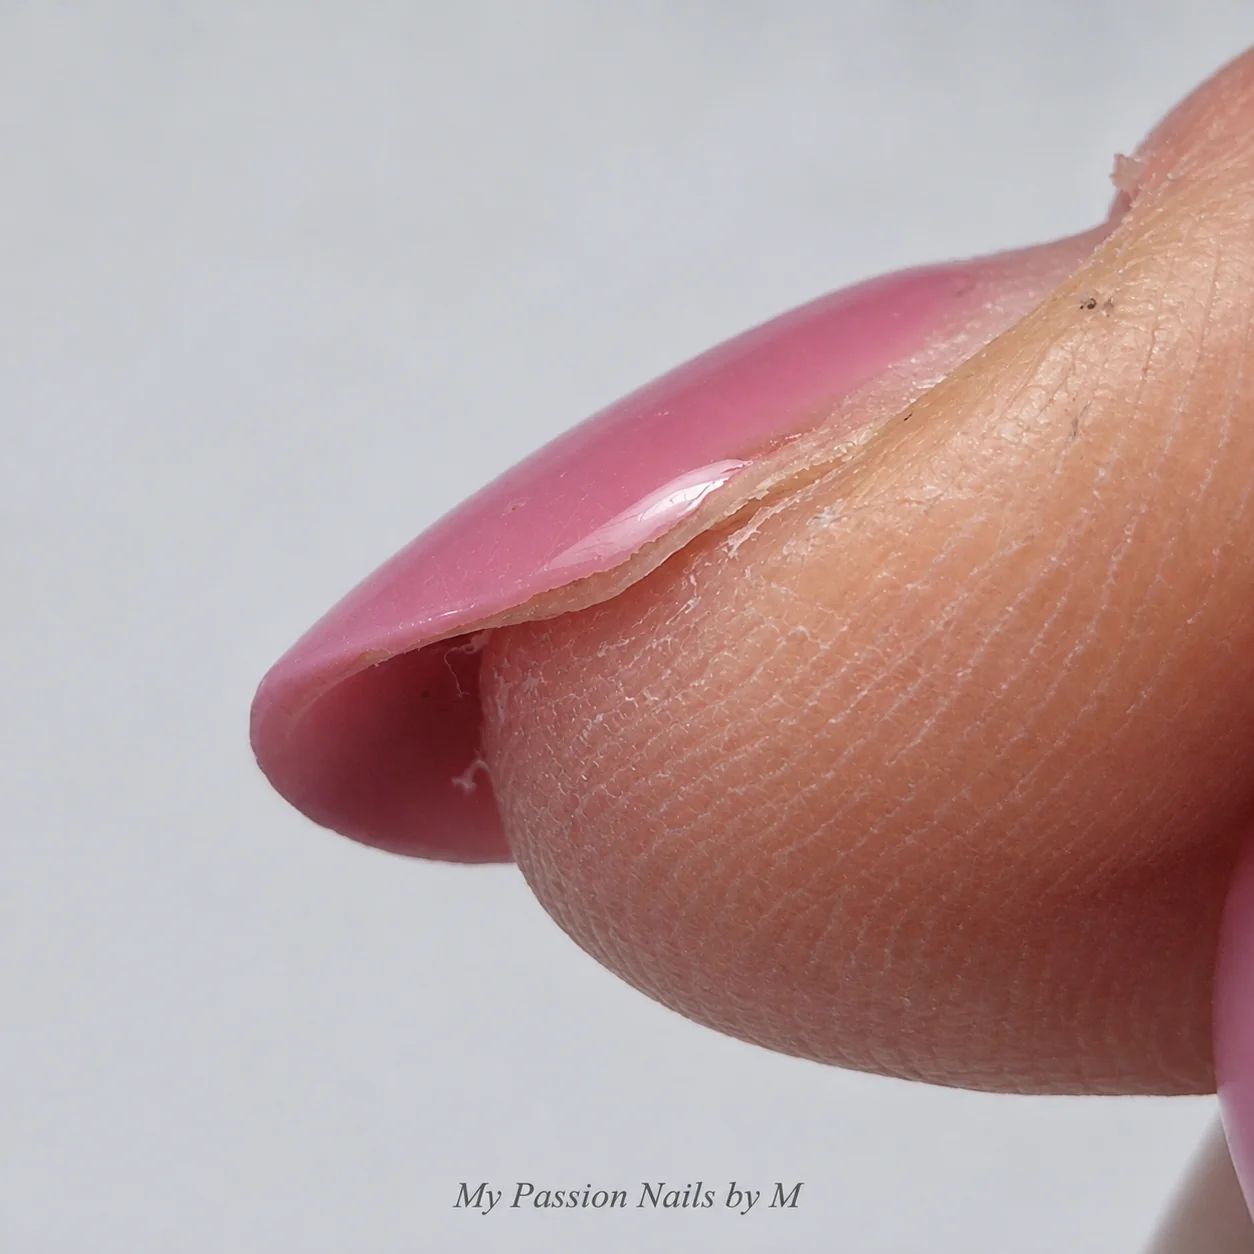
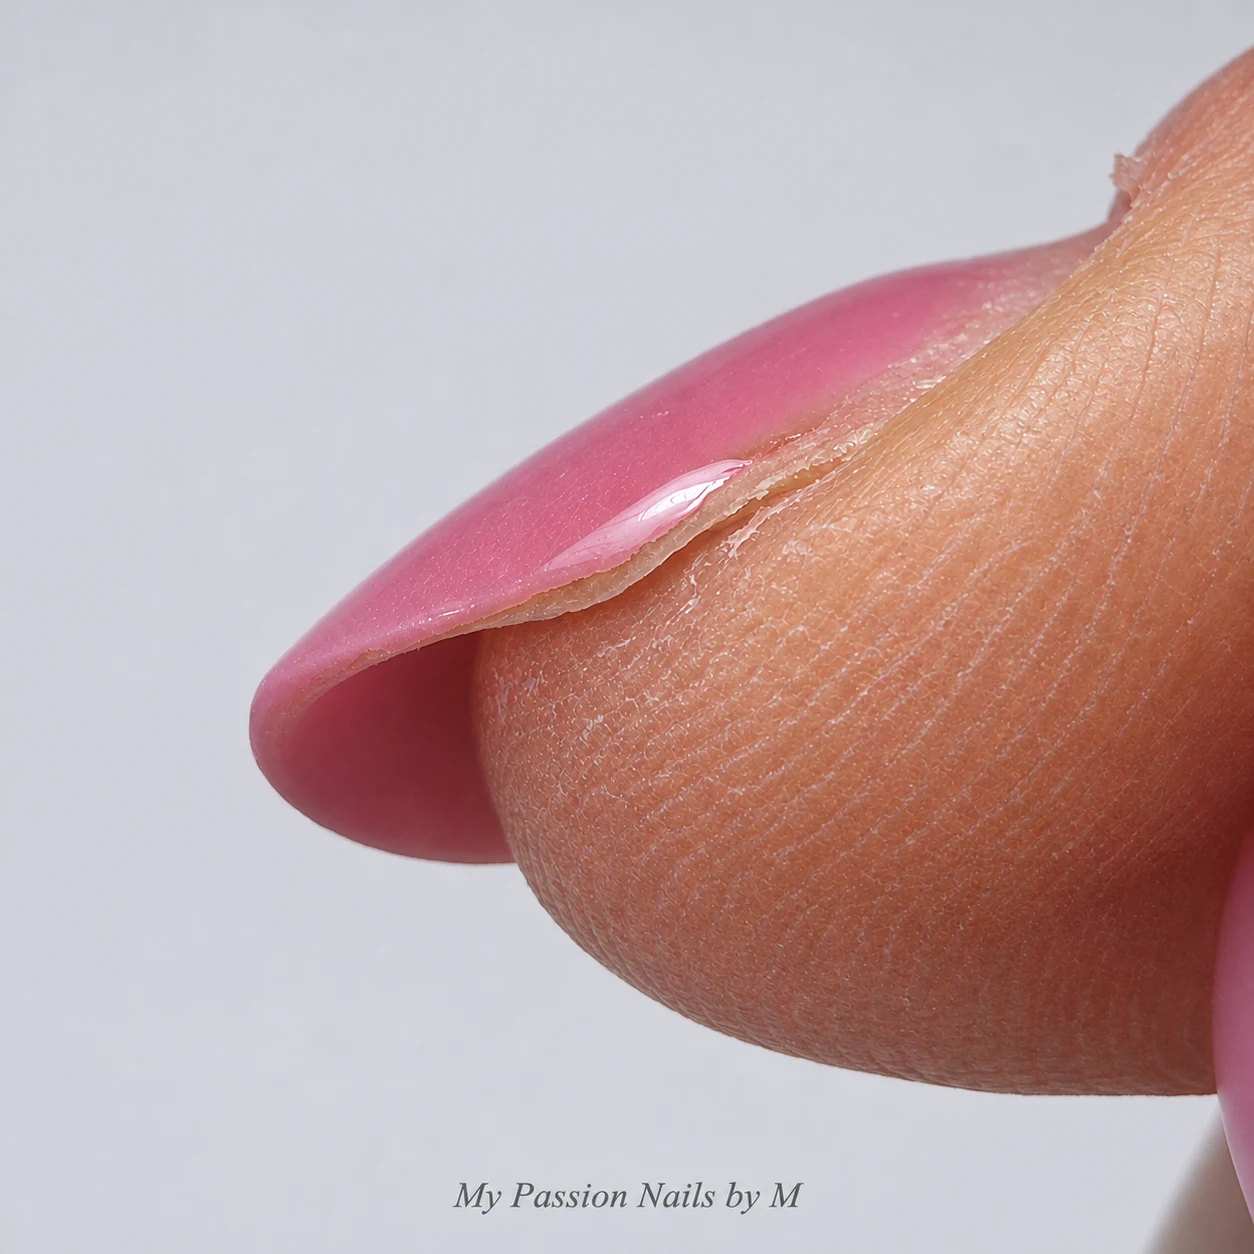
Replace lifting photo with cleaned and sharpened version

diff --git a/blog/fr/pourquoi-semi-permanent-gel-se-decolle/index.html b/blog/fr/pourquoi-semi-permanent-gel-se-decolle/index.html
@@ -35,7 +35,7 @@
 <p>Il peut donner un indice, mais pas une réponse certaine. Un décollement près des cuticules, sur le côté ou au bord libre nécessite d’examiner à la fois la réalisation de la pose et les sollicitations subies par l’ongle.</p>
 <p>Il est utile de savoir quand le changement est apparu, s’il concerne un seul ongle ou plusieurs et s’il a été précédé d’un choc ou d’un accrochage. L’état de la plaque naturelle avant la pose compte aussi.</p>
 <p><strong>Une photo seule ne permet pas toujours d’établir la cause.</strong> Des zones d’aspect similaire peuvent apparaître dans des circonstances différentes, notamment pendant la dépose du produit.</p>
-<figure style="max-width:540px;margin:32px auto"><img class="article-photo" style="width:100%;max-width:540px;height:auto;margin-bottom:12px" src="/images/blog-odspojenie-wolny-brzeg.webp" alt="Décollement du produit au niveau du bord libre de l’ongle naturel." width="1254" height="1254" loading="lazy" decoding="async"><figcaption style="font-size:13px;color:var(--muted);text-align:center">Décollement du produit au niveau du bord libre de l’ongle naturel.</figcaption></figure>
+<figure style="max-width:540px;margin:32px auto"><img class="article-photo" style="width:100%;max-width:540px;height:auto;margin-bottom:12px" src="/images/blog-odspojenie-wolny-brzeg.webp?v=2" alt="Décollement du produit au niveau du bord libre de l’ongle naturel." width="1254" height="1254" loading="lazy" decoding="async"><figcaption style="font-size:13px;color:var(--muted);text-align:center">Décollement du produit au niveau du bord libre de l’ongle naturel.</figcaption></figure>
 <h2 id="section-7">Pourquoi ne faut-il pas recoller le produit qui se soulève ?</h2>
 <figure style="max-width:440px;margin:32px auto"><img class="article-photo" style="max-width:440px" src="/images/blog-usuwanie-stylizacji.webp" alt="Gros plan sur un ongle pendant la dépose, avec des résidus de produit visibles" width="1122" height="1402" loading="lazy" decoding="async"><figcaption style="font-size:13px;color:var(--muted);text-align:center">Ongle pendant la dépose — des résidus de produit sont visibles.</figcaption></figure>
 <p>Lorsqu’un morceau commence à se détacher, il peut être tentant de le presser et de le recoller, ou de le recouvrir d’une couche supplémentaire de finition. Cela ne résout pourtant pas la perte d’adhérence et ne permet pas d’évaluer ce qui se trouve sous la matière.</p>

diff --git a/blog/nl/waarom-gellak-of-gel-loslaat/index.html b/blog/nl/waarom-gellak-of-gel-loslaat/index.html
@@ -35,7 +35,7 @@
 <p>De plek kan een aanwijzing geven, maar geen zeker antwoord. Bij loslating langs de nagelriem, aan de zijkant of bij de vrije rand moet worden gekeken naar zowel de uitvoering van de behandeling als de belasting van de nagel.</p>
 <p>Het is belangrijk wanneer de verandering ontstond, of één nagel of meerdere nagels zijn aangedaan en of er vooraf een stoot of een moment van blijven haken was. Ook de eerdere conditie van de natuurlijke nagelplaat telt mee.</p>
 <p><strong>Op basis van alleen een foto is de oorzaak niet altijd vast te stellen.</strong> Plekken die op elkaar lijken, kunnen in verschillende omstandigheden ontstaan, ook tijdens het verwijderen van het product.</p>
-<figure style="max-width:540px;margin:32px auto"><img class="article-photo" style="width:100%;max-width:540px;height:auto;margin-bottom:12px" src="/images/blog-odspojenie-wolny-brzeg.webp" alt="Product dat loslaat bij de vrije rand van de natuurlijke nagel." width="1254" height="1254" loading="lazy" decoding="async"><figcaption style="font-size:13px;color:var(--muted);text-align:center">Product dat loslaat bij de vrije rand van de natuurlijke nagel.</figcaption></figure>
+<figure style="max-width:540px;margin:32px auto"><img class="article-photo" style="width:100%;max-width:540px;height:auto;margin-bottom:12px" src="/images/blog-odspojenie-wolny-brzeg.webp?v=2" alt="Product dat loslaat bij de vrije rand van de natuurlijke nagel." width="1254" height="1254" loading="lazy" decoding="async"><figcaption style="font-size:13px;color:var(--muted);text-align:center">Product dat loslaat bij de vrije rand van de natuurlijke nagel.</figcaption></figure>
 <h2 id="section-7">Waarom mag je loslatend materiaal niet opnieuw vastlijmen?</h2>
 <figure style="max-width:440px;margin:32px auto"><img class="article-photo" style="max-width:440px" src="/images/blog-usuwanie-stylizacji.webp" alt="Close-up van een nagel tijdens het verwijderen van de styling, met zichtbare productresten" width="1122" height="1402" loading="lazy" decoding="async"><figcaption style="font-size:13px;color:var(--muted);text-align:center">Nagel tijdens het verwijderen van de styling — met zichtbare productresten.</figcaption></figure>
 <p>Als een stukje loskomt, kan het verleidelijk zijn om het aan te drukken en vast te lijmen of er een extra laag topcoat overheen aan te brengen. Dat verhelpt het verlies van hechting niet en maakt het ook niet mogelijk om te beoordelen wat er onder het materiaal zit.</p>

diff --git a/blog/dlaczego-hybryda-lub-zel-odchodzi/index.html b/blog/dlaczego-hybryda-lub-zel-odchodzi/index.html
@@ -35,7 +35,7 @@
 <p>Może być wskazówką, ale nie daje pewnej odpowiedzi. Odspojenie przy skórkach, z boku czy od wolnego brzegu wymaga przyjrzenia się zarówno wykonaniu stylizacji, jak i temu, jak paznokieć był użytkowany.</p>
 <p>Ważne jest, po jakim czasie pojawiła się zmiana, czy dotyczy jednego paznokcia, czy kilku, oraz czy poprzedziło ją uderzenie lub zahaczenie. Znaczenie ma też wcześniejszy stan naturalnej płytki.</p>
 <p><strong>Na podstawie samego zdjęcia nie zawsze można ustalić przyczynę.</strong> Podobnie wyglądające miejsca mogą powstać w różnych okolicznościach, także podczas usuwania produktu.</p>
-<figure style="max-width:540px;margin:32px auto"><img class="article-photo" style="width:100%;max-width:540px;height:auto;margin-bottom:12px" src="/images/blog-odspojenie-wolny-brzeg.webp" alt="Odspojenie materiału przy wolnym brzegu naturalnego paznokcia." width="1254" height="1254" loading="lazy" decoding="async"><figcaption style="font-size:13px;color:var(--muted);text-align:center">Odspojenie materiału przy wolnym brzegu naturalnego paznokcia.</figcaption></figure>
+<figure style="max-width:540px;margin:32px auto"><img class="article-photo" style="width:100%;max-width:540px;height:auto;margin-bottom:12px" src="/images/blog-odspojenie-wolny-brzeg.webp?v=2" alt="Odspojenie materiału przy wolnym brzegu naturalnego paznokcia." width="1254" height="1254" loading="lazy" decoding="async"><figcaption style="font-size:13px;color:var(--muted);text-align:center">Odspojenie materiału przy wolnym brzegu naturalnego paznokcia.</figcaption></figure>
 <h2 id="section-7">Dlaczego nie należy przyklejać odchodzącego materiału?</h2>
 <figure style="max-width:440px;margin:32px auto"><img class="article-photo" style="max-width:440px" src="/images/blog-usuwanie-stylizacji.webp" alt="Zbliżenie paznokcia podczas usuwania stylizacji, z widocznymi pozostałościami produktu" width="1122" height="1402" loading="lazy" decoding="async"><figcaption style="font-size:13px;color:var(--muted);text-align:center">Paznokieć podczas usuwania stylizacji — widoczne pozostałości produktu.</figcaption></figure>
 <p>Kiedy fragment zaczyna odstawać, może kusić, żeby docisnąć go i przykleić albo przykryć dodatkową warstwą topu. To jednak nie usuwa przyczyny utraty przyczepności ani nie pozwala ocenić tego, co znajduje się pod materiałem.</p>

diff --git a/blog/en/why-gel-polish-or-builder-gel-lifts/index.html b/blog/en/why-gel-polish-or-builder-gel-lifts/index.html
@@ -35,7 +35,7 @@
 <p>It can offer a clue, but not a definite answer. Lifting near the cuticle, at the side or along the free edge calls for a look at both the application and the stresses the nail has experienced.</p>
 <p>It helps to know when the change appeared, whether one nail or several are affected, and whether there was a knock or snag beforehand. The condition of the natural nail before treatment is also relevant.</p>
 <p><strong>A photograph alone cannot always establish the cause.</strong> Similar-looking areas can develop in different circumstances, including during product removal.</p>
-<figure style="max-width:540px;margin:32px auto"><img class="article-photo" style="width:100%;max-width:540px;height:auto;margin-bottom:12px" src="/images/blog-odspojenie-wolny-brzeg.webp" alt="Product lifting at the free edge of the natural nail." width="1254" height="1254" loading="lazy" decoding="async"><figcaption style="font-size:13px;color:var(--muted);text-align:center">Product lifting at the free edge of the natural nail.</figcaption></figure>
+<figure style="max-width:540px;margin:32px auto"><img class="article-photo" style="width:100%;max-width:540px;height:auto;margin-bottom:12px" src="/images/blog-odspojenie-wolny-brzeg.webp?v=2" alt="Product lifting at the free edge of the natural nail." width="1254" height="1254" loading="lazy" decoding="async"><figcaption style="font-size:13px;color:var(--muted);text-align:center">Product lifting at the free edge of the natural nail.</figcaption></figure>
 <h2 id="section-7">Why shouldn’t you glue lifting product back down?</h2>
 <figure style="max-width:440px;margin:32px auto"><img class="article-photo" style="max-width:440px" src="/images/blog-usuwanie-stylizacji.webp" alt="Close-up of a nail during product removal, with visible product residue" width="1122" height="1402" loading="lazy" decoding="async"><figcaption style="font-size:13px;color:var(--muted);text-align:center">Nail during removal — remaining product is visible.</figcaption></figure>
 <p>When a piece starts to lift, it can be tempting to press it down and glue it back into place, or cover it with another layer of top coat. This does not address the loss of adhesion or allow the area beneath the product to be assessed.</p>

diff --git a/scripts/build-blog.py b/scripts/build-blog.py
@@ -54,7 +54,7 @@ def page(lang, article=False):
    anatomy_photos={"pl":"<figure style=\"max-width:760px;margin:32px auto\"><a href=\"/images/blog-budowa-paznokcia-pl.webp\" target=\"_blank\" rel=\"noopener\" aria-label=\"Powiększ schemat budowy paznokcia\"><img class=\"article-photo\" style=\"width:100%;max-width:760px;height:auto\" src=\"/images/blog-budowa-paznokcia-pl.webp\" alt=\"Schemat budowy paznokcia: widok z góry i przekrój podłużny\" width=\"1536\" height=\"1024\" loading=\"lazy\" decoding=\"async\"></a></figure>\n","fr":"<figure style=\"max-width:760px;margin:32px auto\"><a href=\"/images/blog-budowa-paznokcia-fr.webp\" target=\"_blank\" rel=\"noopener\" aria-label=\"Agrandir le schéma de l’ongle\"><img class=\"article-photo\" style=\"width:100%;max-width:760px;height:auto\" src=\"/images/blog-budowa-paznokcia-fr.webp\" alt=\"Anatomie de l’ongle : vue de dessus et coupe longitudinale\" width=\"1536\" height=\"1024\" loading=\"lazy\" decoding=\"async\"></a></figure>\n","en":"<figure style=\"max-width:760px;margin:32px auto\"><a href=\"/images/blog-budowa-paznokcia-en.webp\" target=\"_blank\" rel=\"noopener\" aria-label=\"Enlarge the nail anatomy diagram\"><img class=\"article-photo\" style=\"width:100%;max-width:760px;height:auto\" src=\"/images/blog-budowa-paznokcia-en.webp\" alt=\"Nail anatomy: top view and longitudinal section\" width=\"1536\" height=\"1024\" loading=\"lazy\" decoding=\"async\"></a></figure>\n","nl":"<figure style=\"max-width:760px;margin:32px auto\"><a href=\"/images/blog-budowa-paznokcia-nl.webp\" target=\"_blank\" rel=\"noopener\" aria-label=\"Vergroot het schema van de nagel\"><img class=\"article-photo\" style=\"width:100%;max-width:760px;height:auto\" src=\"/images/blog-budowa-paznokcia-nl.webp\" alt=\"Anatomie van de nagel: bovenaanzicht en lengtedoorsnede\" width=\"1536\" height=\"1024\" loading=\"lazy\" decoding=\"async\"></a></figure>\n"}
    body=body.replace('<h2 id="section-2">',anatomy_photos[lang]+'<h2 id="section-2">',1)
   if d.get('content','').startswith('lifting/'):
-   free_edge_photos={"pl":"<figure style=\"max-width:540px;margin:32px auto\"><img class=\"article-photo\" style=\"width:100%;max-width:540px;height:auto;margin-bottom:12px\" src=\"/images/blog-odspojenie-wolny-brzeg.webp\" alt=\"Odspojenie materiału przy wolnym brzegu naturalnego paznokcia.\" width=\"1254\" height=\"1254\" loading=\"lazy\" decoding=\"async\"><figcaption style=\"font-size:13px;color:var(--muted);text-align:center\">Odspojenie materiału przy wolnym brzegu naturalnego paznokcia.</figcaption></figure>\n","fr":"<figure style=\"max-width:540px;margin:32px auto\"><img class=\"article-photo\" style=\"width:100%;max-width:540px;height:auto;margin-bottom:12px\" src=\"/images/blog-odspojenie-wolny-brzeg.webp\" alt=\"Décollement du produit au niveau du bord libre de l’ongle naturel.\" width=\"1254\" height=\"1254\" loading=\"lazy\" decoding=\"async\"><figcaption style=\"font-size:13px;color:var(--muted);text-align:center\">Décollement du produit au niveau du bord libre de l’ongle naturel.</figcaption></figure>\n","en":"<figure style=\"max-width:540px;margin:32px auto\"><img class=\"article-photo\" style=\"width:100%;max-width:540px;height:auto;margin-bottom:12px\" src=\"/images/blog-odspojenie-wolny-brzeg.webp\" alt=\"Product lifting at the free edge of the natural nail.\" width=\"1254\" height=\"1254\" loading=\"lazy\" decoding=\"async\"><figcaption style=\"font-size:13px;color:var(--muted);text-align:center\">Product lifting at the free edge of the natural nail.</figcaption></figure>\n","nl":"<figure style=\"max-width:540px;margin:32px auto\"><img class=\"article-photo\" style=\"width:100%;max-width:540px;height:auto;margin-bottom:12px\" src=\"/images/blog-odspojenie-wolny-brzeg.webp\" alt=\"Product dat loslaat bij de vrije rand van de natuurlijke nagel.\" width=\"1254\" height=\"1254\" loading=\"lazy\" decoding=\"async\"><figcaption style=\"font-size:13px;color:var(--muted);text-align:center\">Product dat loslaat bij de vrije rand van de natuurlijke nagel.</figcaption></figure>\n"}
+   free_edge_photos={"pl":"<figure style=\"max-width:540px;margin:32px auto\"><img class=\"article-photo\" style=\"width:100%;max-width:540px;height:auto;margin-bottom:12px\" src=\"/images/blog-odspojenie-wolny-brzeg.webp?v=2\" alt=\"Odspojenie materiału przy wolnym brzegu naturalnego paznokcia.\" width=\"1254\" height=\"1254\" loading=\"lazy\" decoding=\"async\"><figcaption style=\"font-size:13px;color:var(--muted);text-align:center\">Odspojenie materiału przy wolnym brzegu naturalnego paznokcia.</figcaption></figure>\n","fr":"<figure style=\"max-width:540px;margin:32px auto\"><img class=\"article-photo\" style=\"width:100%;max-width:540px;height:auto;margin-bottom:12px\" src=\"/images/blog-odspojenie-wolny-brzeg.webp?v=2\" alt=\"Décollement du produit au niveau du bord libre de l’ongle naturel.\" width=\"1254\" height=\"1254\" loading=\"lazy\" decoding=\"async\"><figcaption style=\"font-size:13px;color:var(--muted);text-align:center\">Décollement du produit au niveau du bord libre de l’ongle naturel.</figcaption></figure>\n","en":"<figure style=\"max-width:540px;margin:32px auto\"><img class=\"article-photo\" style=\"width:100%;max-width:540px;height:auto;margin-bottom:12px\" src=\"/images/blog-odspojenie-wolny-brzeg.webp?v=2\" alt=\"Product lifting at the free edge of the natural nail.\" width=\"1254\" height=\"1254\" loading=\"lazy\" decoding=\"async\"><figcaption style=\"font-size:13px;color:var(--muted);text-align:center\">Product lifting at the free edge of the natural nail.</figcaption></figure>\n","nl":"<figure style=\"max-width:540px;margin:32px auto\"><img class=\"article-photo\" style=\"width:100%;max-width:540px;height:auto;margin-bottom:12px\" src=\"/images/blog-odspojenie-wolny-brzeg.webp?v=2\" alt=\"Product dat loslaat bij de vrije rand van de natuurlijke nagel.\" width=\"1254\" height=\"1254\" loading=\"lazy\" decoding=\"async\"><figcaption style=\"font-size:13px;color:var(--muted);text-align:center\">Product dat loslaat bij de vrije rand van de natuurlijke nagel.</figcaption></figure>\n"}
    body=body.replace('<h2 id="section-7">',free_edge_photos[lang]+'<h2 id="section-7">',1)
   if d.get('content','').startswith('hygiene/'):
    extra_photos={"pl":"<figure style=\"max-width:540px;margin:32px auto\"><img class=\"article-photo\" style=\"max-width:540px;margin-bottom:12px\" src=\"/images/blog-pilniki-wymienne.webp\" alt=\"Pilniki i wymienne materiały ścierne w kieszeni dżinsów — zdjęcie aranżowane\" width=\"1254\" height=\"1254\" loading=\"lazy\" decoding=\"async\"><figcaption style=\"font-size:13px;color:var(--muted);text-align:center\">Pilniki i wymienne materiały ścierne — zdjęcie aranżowane.</figcaption></figure>\n","fr":"<figure style=\"max-width:540px;margin:32px auto\"><img class=\"article-photo\" style=\"max-width:540px;margin-bottom:12px\" src=\"/images/blog-pilniki-wymienne.webp\" alt=\"Limes et abrasifs remplaçables dans une poche de jean — photo mise en scène\" width=\"1254\" height=\"1254\" loading=\"lazy\" decoding=\"async\"><figcaption style=\"font-size:13px;color:var(--muted);text-align:center\">Limes et abrasifs remplaçables — photo mise en scène.</figcaption></figure>\n","en":"<figure style=\"max-width:540px;margin:32px auto\"><img class=\"article-photo\" style=\"max-width:540px;margin-bottom:12px\" src=\"/images/blog-pilniki-wymienne.webp\" alt=\"Nail files and replaceable abrasives in a jeans pocket — staged photograph\" width=\"1254\" height=\"1254\" loading=\"lazy\" decoding=\"async\"><figcaption style=\"font-size:13px;color:var(--muted);text-align:center\">Nail files and replaceable abrasives — staged photograph.</figcaption></figure>\n","nl":"<figure style=\"max-width:540px;margin:32px auto\"><img class=\"article-photo\" style=\"max-width:540px;margin-bottom:12px\" src=\"/images/blog-pilniki-wymienne.webp\" alt=\"Nagelvijlen en vervangbare schuurmaterialen in een jeanszak — geënsceneerde foto\" width=\"1254\" height=\"1254\" loading=\"lazy\" decoding=\"async\"><figcaption style=\"font-size:13px;color:var(--muted);text-align:center\">Nagelvijlen en vervangbare schuurmaterialen — geënsceneerde foto.</figcaption></figure>\n"}
